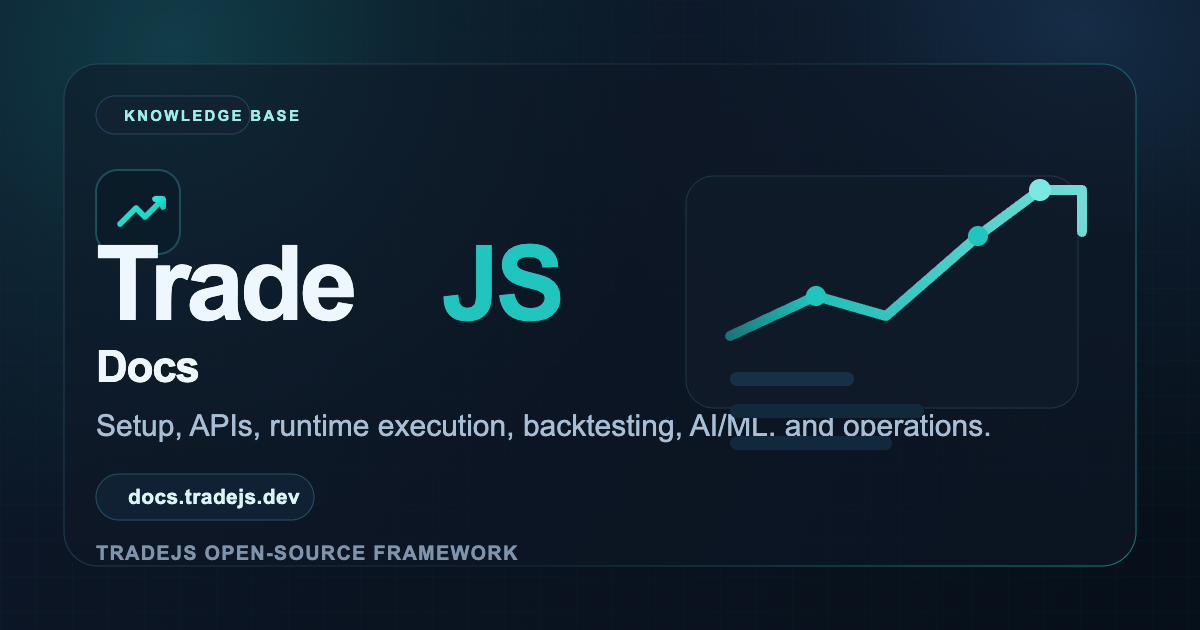
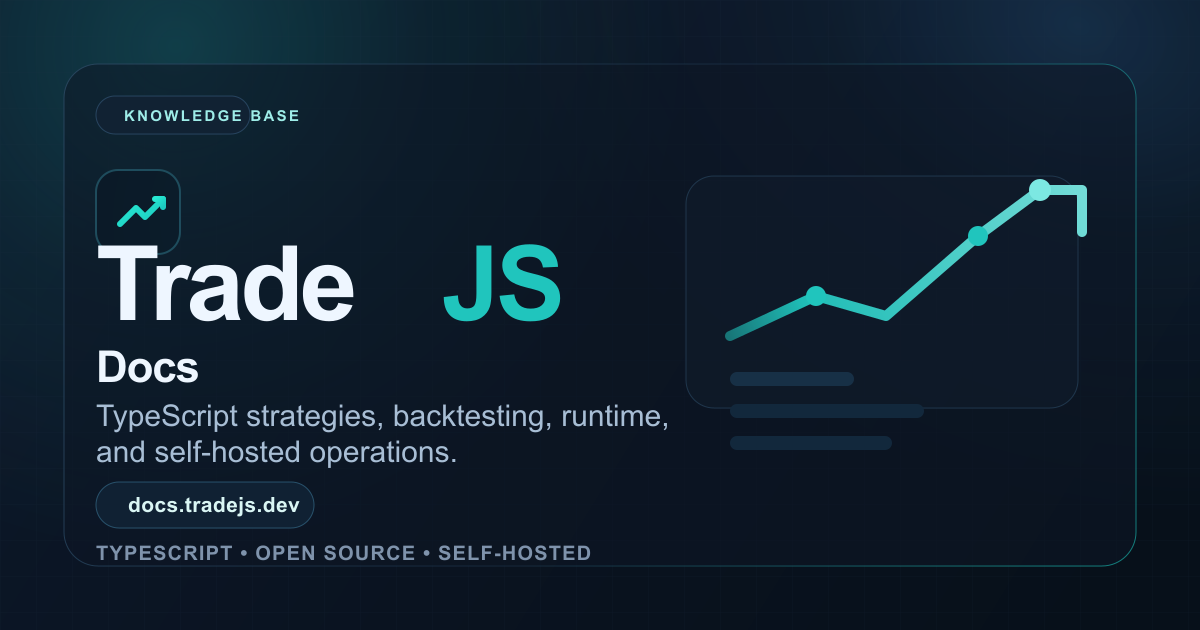
Refocus docs on TypeScript and self-hosting

diff --git a/docusaurus.config.ts b/docusaurus.config.ts
@@ -7,7 +7,7 @@ const t = (en: string, ru: string) => (currentLocale === 'ru' ? ru : en);
 
 const config: Config = {
   title: 'TradeJS Docs',
-  tagline: 'Technical docs for the TradeJS open-source framework',
+  tagline: 'Self-hosted TypeScript trading strategy framework',
   favicon: 'img/favicon.ico',
 
   future: {
@@ -73,12 +73,12 @@ const config: Config = {
       {
         name: 'description',
         content:
-          'Official documentation for the TradeJS open-source framework: strategy authoring, indicators, runtime, backtesting, AI/ML, and operations.',
+          'Documentation for the open-source, self-hosted TradeJS framework: build, backtest, and run programmable trading strategies in TypeScript.',
       },
       {
         name: 'keywords',
         content:
-          'TradeJS, trading docs, algorithmic trading, TypeScript strategies, Pine Script, backtesting, AI/ML',
+          'TradeJS, TypeScript trading strategies, self-hosted trading framework, algorithmic trading, backtesting, runtime',
       },
       {
         name: 'robots',
@@ -110,15 +110,9 @@ const config: Config = {
         },
         {
           type: 'doc',
-          docId: 'core-concepts/strategy',
+          docId: 'strategies/authoring/typescript-strategy-step-by-step',
           position: 'left',
-          label: t('Concepts', 'Понятия'),
-        },
-        {
-          type: 'doc',
-          docId: 'examples',
-          position: 'left',
-          label: t('Examples', 'Примеры'),
+          label: t('TypeScript Strategies', 'TypeScript-стратегии'),
         },
         {
           type: 'doc',
@@ -128,15 +122,15 @@ const config: Config = {
         },
         {
           type: 'doc',
-          docId: 'advanced/runtime',
+          docId: 'runtime/execution/signals',
           position: 'left',
           label: t('Runtime', 'Рантайм'),
         },
         {
           type: 'doc',
-          docId: 'limitations/index',
+          docId: 'operations/production-runbook',
           position: 'left',
-          label: t('Limitations', 'Ограничения'),
+          label: t('Self-Hosting', 'Self-hosting'),
         },
         {
           type: 'localeDropdown',
@@ -181,26 +175,26 @@ const config: Config = {
           ],
         },
         {
-          title: t('Guides', 'Руководства'),
+          title: t('TypeScript', 'TypeScript'),
           items: [
             { label: t('Examples', 'Примеры'), to: '/examples' },
             { label: t('Core API', 'Базовый API'), to: '/api/framework' },
             {
-              label: t('Creating Strategies', 'Создание стратегий'),
-              to: '/guides/create-simple-strategy',
+              label: t('TypeScript Strategy', 'TypeScript-стратегия'),
+              to: '/strategies/authoring/typescript-strategy-step-by-step',
             },
             { label: t('Backtest a Strategy', 'Бэктест стратегии'), to: '/guides/backtest-strategy' },
           ],
         },
         {
-          title: t('Advanced', 'Продвинутые темы'),
+          title: t('Self-Hosting', 'Self-hosting'),
           items: [
             { label: t('Architecture', 'Архитектура'), to: '/advanced/architecture' },
-            { label: t('CLI API', 'CLI API'), to: '/api/cli' },
             {
               label: t('Production Runbook', 'Руководство по эксплуатации продакшена'),
               to: '/operations/production-runbook',
             },
+            { label: t('Monitoring', 'Мониторинг'), to: '/operations/monitoring-alerts' },
             { label: t('Backtesting Caveats', 'Ограничения бэктестинга'), to: '/limitations/backtesting-caveats' },
           ],
         },

diff --git a/docs/introduction/what-is-tradejs.md b/docs/introduction/what-is-tradejs.md
@@ -2,7 +2,7 @@
 title: What is TradeJS?
 ---
 
-TradeJS helps developers build, test, and automate trading strategies using TypeScript.
+TradeJS is an open-source, self-hosted framework for building, backtesting, and running programmable trading strategies in TypeScript.
 
 At the simplest level, a TradeJS project contains:
 
@@ -12,15 +12,23 @@ At the simplest level, a TradeJS project contains:
 - a runtime that can backtest, scan, and optionally automate execution
 - metrics and artifacts that help you compare strategy behavior
 
-TradeJS is not a black-box trading product. It is a developer framework. You write or configure the strategy, run it against historical data, inspect the output, and decide whether it is suitable for further research or automation.
+TradeJS is not a black-box trading product. It is a developer framework and runtime stack. You write or configure the strategy, run it against historical data, inspect the output, and decide whether it is suitable for runtime signals or controlled automation on infrastructure you operate.
+
+## Primary Workflow
+
+1. Write typed strategy logic and indicators in TypeScript.
+2. Backtest and compare strategy configurations on historical data.
+3. Promote a selected result into runtime configuration.
+4. Generate signals and optionally automate execution on your infrastructure.
 
 ## What You Can Do
 
-- Research strategy ideas with TypeScript or Pine Script-inspired workflows.
+- Research strategy ideas with TypeScript.
 - Run backtests and compare strategy/config variants.
 - Generate runtime signals from the same strategy logic.
+- Run the framework locally or on self-hosted infrastructure.
 - Register custom strategy, indicator, and connector plugins.
-- Use AI/ML workflows as optional research and gating layers.
+- Add Pine compatibility and AI/ML workflows as optional extensions.
 - Inspect results in the installable app.
 
 ## Public Surface

diff --git a/docs/operations/production-runbook.md b/docs/operations/production-runbook.md
@@ -4,6 +4,21 @@ title: Production Runbook
 
 Use this runbook as a daily operational checklist.
 
+## Self-Hosted Deployment Model
+
+TradeJS is distributed as public npm packages, not as a managed trading service. A production installation runs in an environment you operate and connects to Redis and PostgreSQL/Timescale services you control.
+
+Build and start the installable app from your project:
+
+```bash
+npx tradejs-app build
+npx tradejs-app start
+```
+
+Use your own process supervisor or container platform for the app and scheduled runtime commands. Provide TLS, ingress, backups, secrets management, and service monitoring according to your environment.
+
+The public packages do not provision a turnkey production environment. Start with the local [Quickstart](../getting-started/quickstart), then replace local infrastructure with your production services deliberately.
+
 ## Daily Health Checks
 
 1. `docker compose ps` or service manager status.

diff --git a/i18n/ru/docusaurus-plugin-content-docs/current/introduction/what-is-tradejs.md b/i18n/ru/docusaurus-plugin-content-docs/current/introduction/what-is-tradejs.md
@@ -2,7 +2,7 @@
 title: Что такое TradeJS?
 ---
 
-TradeJS помогает разработчикам создавать, тестировать и автоматизировать торговые стратегии на TypeScript.
+TradeJS — open-source self-hosted фреймворк для создания, бэктестинга и запуска программируемых торговых стратегий на TypeScript.
 
 В базовом виде TradeJS-проект состоит из:
 
@@ -12,16 +12,23 @@ TradeJS помогает разработчикам создавать, тест
 - runtime для бэктестов, сканирования и опционального исполнения;
 - метрик и артефактов для сравнения поведения.
 
-TradeJS - это developer framework, а не black-box trading product. Вы пишете или настраиваете стратегию, прогоняете ее на исторических данных, анализируете вывод и сами решаете, подходит ли она для дальнейшего исследования или автоматизации.
+TradeJS — это developer framework и runtime stack, а не black-box trading product. Вы пишете или настраиваете стратегию, прогоняете её на исторических данных, анализируете результат и сами решаете, подходит ли она для runtime-сигналов или контролируемой автоматизации на вашей инфраструктуре.
+
+## Основной процесс
+
+1. Напишите типизированную логику стратегии и индикаторы на TypeScript.
+2. Проведите бэктесты и сравните конфигурации на исторических данных.
+3. Перенесите выбранный результат в runtime-конфигурацию.
+4. Генерируйте сигналы и при необходимости автоматизируйте исполнение на своей инфраструктуре.
 
 ## Что можно делать
 
 - Исследовать стратегии на TypeScript.
-- Использовать Pine Script-inspired workflows.
 - Запускать бэктесты и сравнивать конфиги.
 - Генерировать runtime-сигналы.
+- Запускать фреймворк локально или на своей инфраструктуре.
 - Подключать свои strategy, indicator и connector plugins.
-- Использовать AI/ML как дополнительные research/gating слои.
+- Добавлять совместимость с Pine и AI/ML workflows как опциональные расширения.
 - Смотреть результаты в installable app.
 
 ## Публичная поверхность

diff --git a/i18n/ru/docusaurus-plugin-content-docs/current/operations/production-runbook.md b/i18n/ru/docusaurus-plugin-content-docs/current/operations/production-runbook.md
@@ -4,6 +4,21 @@ title: Руководство по эксплуатации продакшена
 
 Этот runbook можно использовать как ежедневный шаблон эксплуатации.
 
+## Self-hosted модель deployment
+
+TradeJS распространяется как набор публичных npm-пакетов, а не как managed trading service. Production-инсталляция запускается в среде под вашим управлением и подключается к вашим Redis и PostgreSQL/Timescale.
+
+Соберите и запустите installable app из своего проекта:
+
+```bash
+npx tradejs-app build
+npx tradejs-app start
+```
+
+Используйте собственный process supervisor или container platform для приложения и runtime-команд по расписанию. TLS, ingress, backups, secrets management и monitoring настраиваются в вашей среде.
+
+Публичные пакеты не разворачивают готовую production-инфраструктуру автоматически. Начните с локального [Быстрого старта](../getting-started/quickstart), затем осознанно замените локальные сервисы production-инфраструктурой.
+
 ## Ежедневные проверки
 
 1. Проверка статуса сервисов (`docker compose ps` или оркестратор).

diff --git a/docs/intro.md b/docs/intro.md
@@ -4,7 +4,7 @@ title: Welcome
 slug: /
 ---
 
-TradeJS helps developers build, test, compare, and automate trading strategies with TypeScript.
+TradeJS is an open-source, self-hosted framework for building, backtesting, and running programmable trading strategies in TypeScript.
 
 Start here if you are opening the project for the first time:
 
@@ -14,7 +14,17 @@ Start here if you are opening the project for the first time:
 4. Learn the main objects in [Core Concepts](./core-concepts/strategy).
 5. Copy from the practical [Examples](./examples).
 
-TradeJS is designed for research, backtesting, signal generation, and controlled automation. It is not financial advice, not an HFT engine, and not a system that can promise future returns.
+The primary workflow is **write → backtest → run**: keep strategy logic in TypeScript, compare it on historical data, and move selected configurations into a runtime you operate.
+
+TradeJS is designed for research, backtesting, signal generation, and controlled automation on your infrastructure. It is not financial advice, not an HFT engine, and not a system that can promise future returns.
+
+## Product Focus
+
+- **TypeScript-native:** strategies, indicators, plugins, and runtime contracts are programmable and typed.
+- **One strategy lifecycle:** use the same strategy implementation for backtests and runtime evaluation.
+- **Self-hosted:** keep strategy code, market data, credentials, and execution infrastructure under your control.
+
+Pine compatibility, AI/ML enrichment, grid search, Telegram notifications, and the optional app extend this core workflow.
 
 ## Public Packages
 

diff --git a/i18n/ru/docusaurus-plugin-content-docs/current/intro.md b/i18n/ru/docusaurus-plugin-content-docs/current/intro.md
@@ -4,7 +4,7 @@ title: Добро пожаловать
 slug: /
 ---
 
-TradeJS помогает разработчикам создавать, тестировать, сравнивать и автоматизировать торговые стратегии на TypeScript.
+TradeJS — open-source self-hosted фреймворк для создания, бэктестинга и запуска программируемых торговых стратегий на TypeScript.
 
 Если вы открыли проект впервые, начните так:
 
@@ -14,7 +14,17 @@ TradeJS помогает разработчикам создавать, тест
 4. Разберитесь с объектами в [Базовых понятиях](./core-concepts/strategy).
 5. Возьмите стартовые шаблоны из [Примеров](./examples).
 
-TradeJS предназначен для research, backtesting, генерации сигналов и контролируемой автоматизации. Это не финансовая рекомендация, не HFT-движок и не система, которая обещает будущий доход.
+Основной процесс — **write → backtest → run**: храните логику стратегии в TypeScript, сравнивайте её на исторических данных и переносите выбранные конфигурации в runtime под своим управлением.
+
+TradeJS предназначен для research, backtesting, генерации сигналов и контролируемой автоматизации на вашей инфраструктуре. Это не финансовая рекомендация, не HFT-движок и не система, которая обещает будущий доход.
+
+## Фокус продукта
+
+- **TypeScript-native:** стратегии, индикаторы, плагины и runtime-контракты программируются и типизируются.
+- **Единый цикл стратегии:** одна реализация используется для бэктестов и runtime-оценки.
+- **Self-hosted:** код стратегий, рыночные данные, credentials и инфраструктура исполнения остаются под вашим контролем.
+
+Совместимость с Pine, AI/ML enrichment, grid search, Telegram-уведомления и опциональное приложение расширяют этот основной процесс.
 
 ## Публичные пакеты
 

diff --git a/docs/introduction/who-is-it-for.md b/docs/introduction/who-is-it-for.md
@@ -2,24 +2,27 @@
 title: Who is it for?
 ---
 
-TradeJS is for developers and technical researchers who want a programmable way to research, test, compare, and automate trading strategies.
+TradeJS is for TypeScript developers and technical researchers who want a programmable, self-hosted way to research, test, and run trading strategies.
 
 It fits you if you want to:
 
 - write strategy logic in TypeScript
-- port or mirror Pine Script-inspired ideas into a testable runtime
 - run backtests before considering live automation
+- move one strategy implementation from backtest into runtime
+- keep strategy code, data, credentials, and operations on your infrastructure
 - inspect signals, orders, positions, and metrics
 - build custom plugins for strategies, indicators, or connectors
 - keep strategy research reproducible in code
+
+Pine Script-inspired workflows and AI/ML layers are available when needed, but they are not required for the primary TypeScript workflow.
 
 It is less useful if you want a no-code trading app, a managed investment product, or a one-click signal subscription.
 
 ## Typical Users
 
-- TypeScript developers experimenting with systematic strategies
+- TypeScript developers building systematic strategies
 - quant-minded builders who want inspectable backtest artifacts
-- teams that need a controlled runtime for signals and automation
+- teams that need a self-hosted runtime for signals and controlled automation
 - researchers comparing strategy variants across symbols and time windows
 
 ## Assumed Comfort Level

diff --git a/i18n/ru/docusaurus-plugin-content-docs/current/introduction/who-is-it-for.md b/i18n/ru/docusaurus-plugin-content-docs/current/introduction/who-is-it-for.md
@@ -2,16 +2,19 @@
 title: Для кого TradeJS?
 ---
 
-TradeJS подходит разработчикам и техническим исследователям, которым нужен программируемый способ исследовать, тестировать, сравнивать и автоматизировать стратегии.
+TradeJS подходит TypeScript-разработчикам и техническим исследователям, которым нужен программируемый self-hosted способ исследовать, тестировать и запускать стратегии.
 
 Он полезен, если вы хотите:
 
 - писать стратегию на TypeScript;
-- переносить Pine Script-inspired идеи в проверяемый runtime;
 - запускать бэктесты до live-автоматизации;
+- переносить одну реализацию стратегии из бэктеста в runtime;
+- хранить код, данные, credentials и operations на своей инфраструктуре;
 - смотреть сигналы, ордера, позиции и метрики;
 - создавать свои plugins;
 - хранить research в коде.
+
+Pine Script-inspired workflows и AI/ML-слои доступны при необходимости, но не требуются для основного TypeScript-процесса.
 
 Он хуже подходит, если вам нужен no-code trading app, managed investment product или one-click signal subscription.
 

diff --git a/docs/introduction/what-tradejs-is-not.md b/docs/introduction/what-tradejs-is-not.md
@@ -4,6 +4,10 @@ title: What TradeJS is not
 
 TradeJS is intentionally scoped as a research, backtesting, signal, and automation framework. It does not remove trading risk.
 
+## Not a Hosted Trading SaaS
+
+TradeJS is distributed as public npm packages and is designed to run locally or on infrastructure you operate. You are responsible for deployment, data services, credentials, monitoring, and upgrades.
+
 ## Not HFT
 
 TradeJS is not a high-frequency trading engine. It is built around candle-based strategy workflows and is best treated as a slower systematic research/runtime tool. Recommended strategy timeframes start at `5m+`; many examples use `15m`.

diff --git a/i18n/ru/docusaurus-plugin-content-docs/current/introduction/what-tradejs-is-not.md b/i18n/ru/docusaurus-plugin-content-docs/current/introduction/what-tradejs-is-not.md
@@ -4,6 +4,10 @@ title: Чем TradeJS не является
 
 TradeJS ограничен задачами research, backtesting, signal generation и automation. Он не убирает торговый риск.
 
+## Не hosted trading SaaS
+
+TradeJS распространяется как набор публичных npm-пакетов и запускается локально или на вашей инфраструктуре. Вы отвечаете за deployment, data services, credentials, monitoring и обновления.
+
 ## Не HFT
 
 TradeJS не является high-frequency trading engine. Он построен вокруг candle-based workflow. Рекомендуемые таймфреймы начинаются с `5m+`; многие примеры используют `15m`.

diff --git a/docs/getting-started/installation.md b/docs/getting-started/installation.md
@@ -2,7 +2,7 @@
 title: Installation
 ---
 
-Use the public npm packages. Public docs should not depend on the TradeJS monorepo workspace.
+Install the public npm packages into your own TypeScript project. TradeJS runs locally or on infrastructure you operate; this guide does not depend on the TradeJS monorepo workspace.
 
 ## Requirements
 